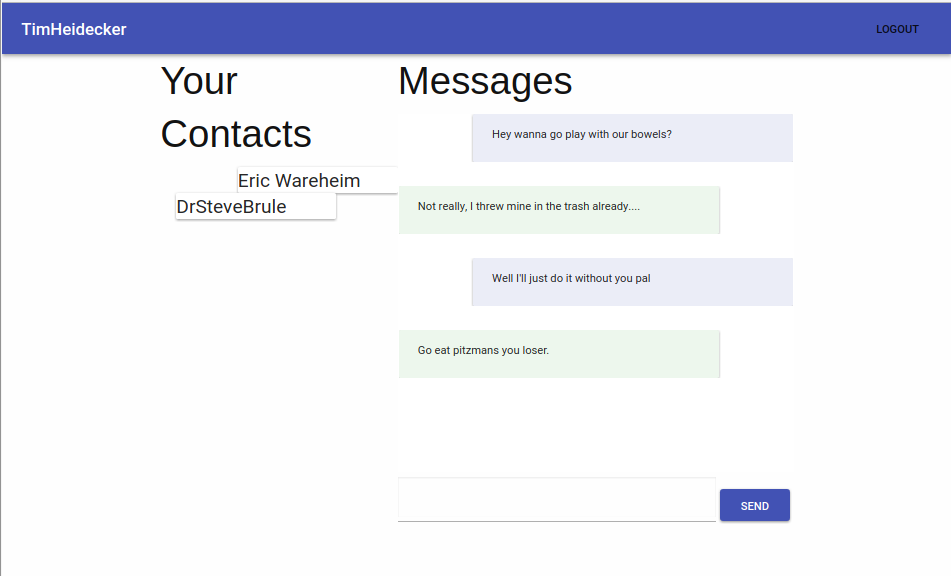
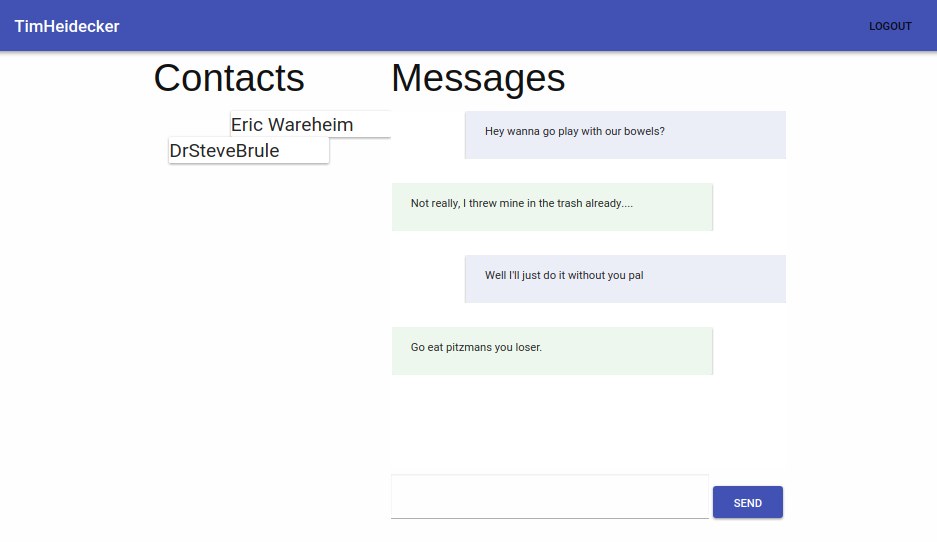
Rename Contacts

diff --git a/client/src/components/UserList.js b/client/src/components/UserList.js
@@ -7,7 +7,7 @@ export default props => {
   const { users, changeRecipient } = props;
   return (
     <div>
-      <h1> Your Contacts </h1>
+      <h1> Contacts </h1>
       <ul style={{ fontSize: '150%' }}>
         {users.map(user => (
           <Card
